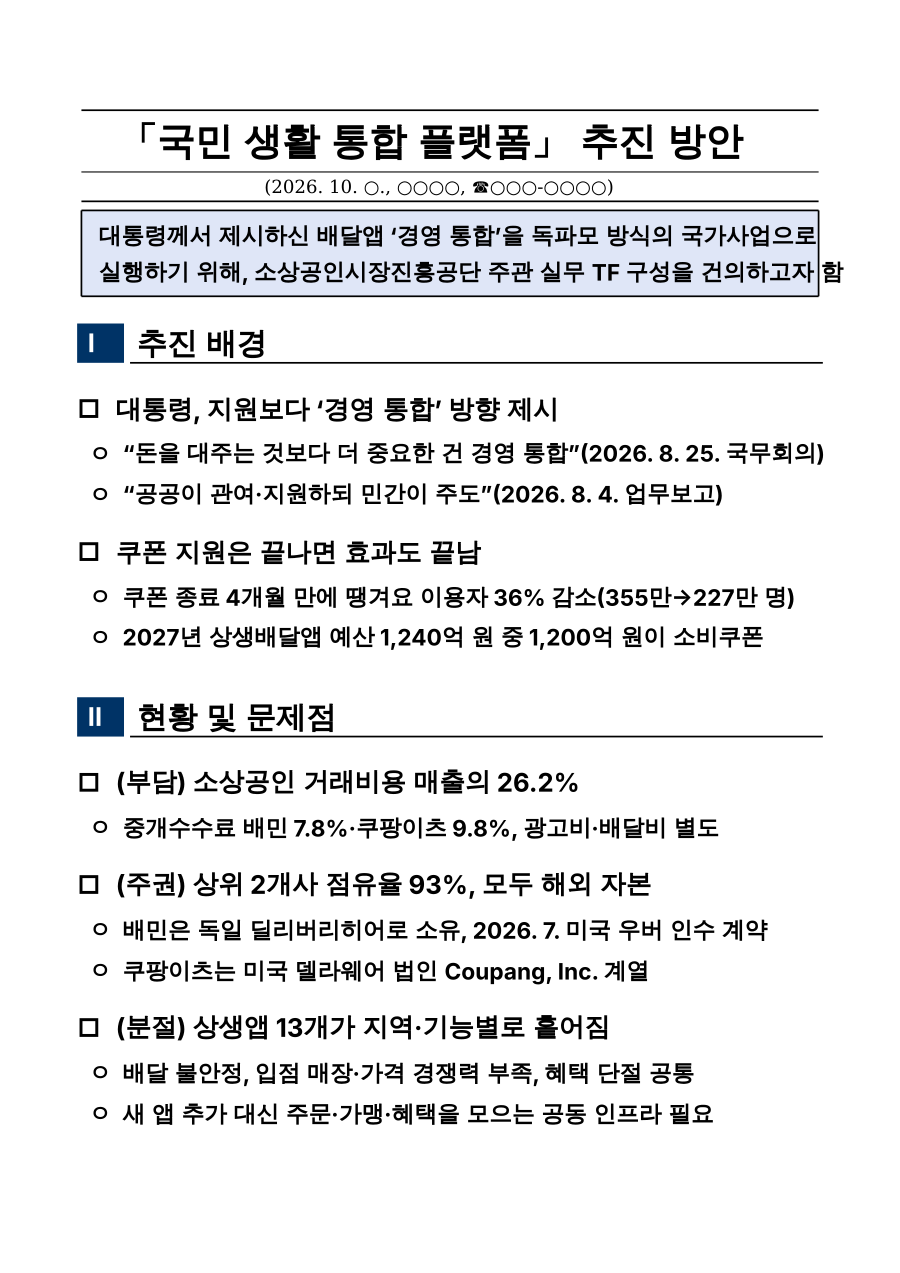
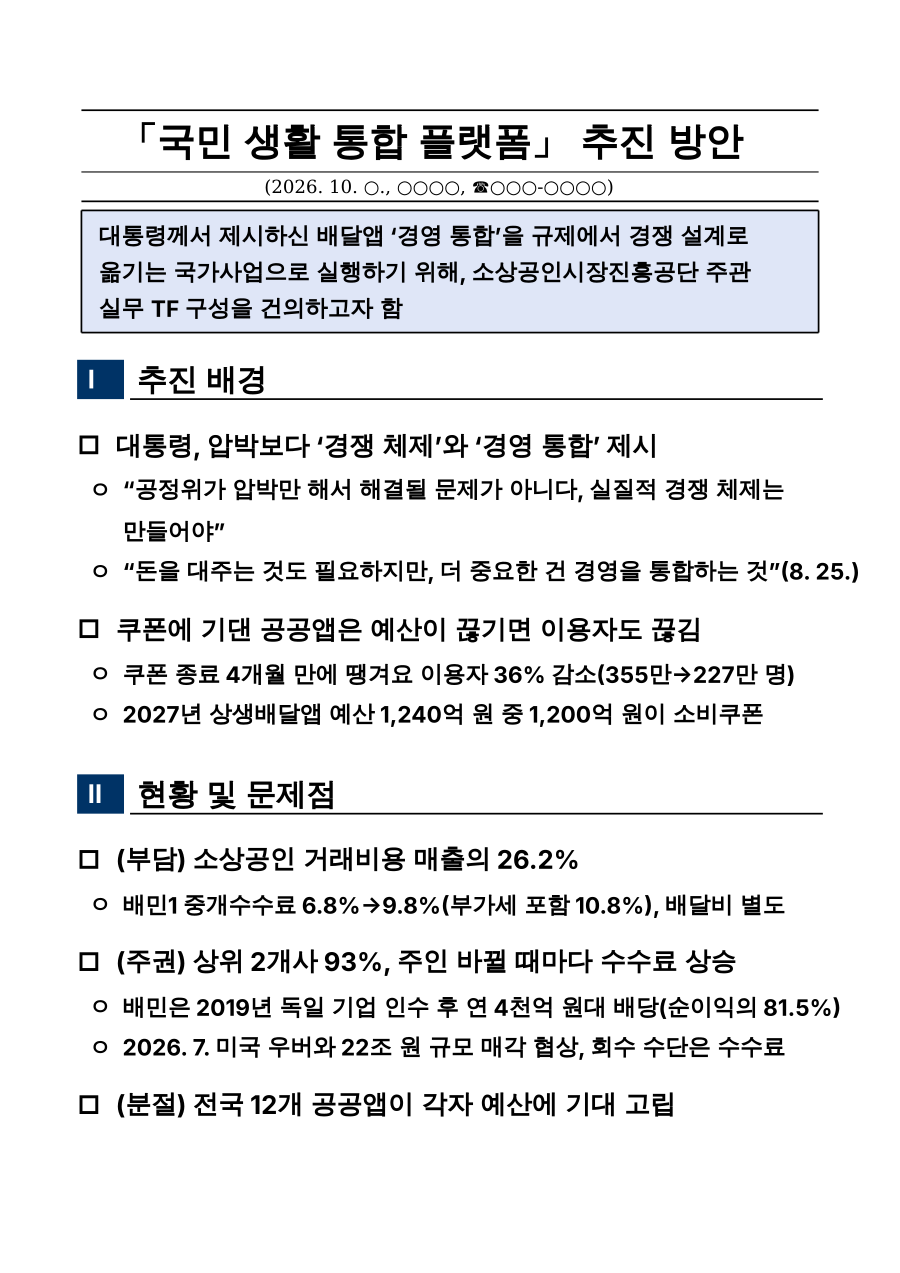
대통령 보고서에 8·25 이후 페북 글(배달주권 2030) 반영
Claude-Session: https://claude.ai/code/session_01BFErphuA4j3xYiicWyP4mv

Changed region(s): [[0.0622, 0.1532, 0.9644, 0.8885]]

diff --git a/out/국민생활통합플랫폼_대통령보고.md b/out/국민생활통합플랫폼_대통령보고.md
@@ -1,50 +1,51 @@
 # 「국민 생활 통합 플랫폼」 추진 방안
 
-> 대통령께서 제시하신 배달앱 ‘경영 통합’을 독파모 방식의 국가사업으로 실행하기 위해, 소상공인시장진흥공단 주관 실무 TF 구성을 건의하고자 함
+> 대통령께서 제시하신 배달앱 ‘경영 통합’을 규제에서 경쟁 설계로 옮기는 국가사업으로 실행하기 위해, 소상공인시장진흥공단 주관 실무 TF 구성을 건의하고자 함
 
 ## Ⅰ. 추진 배경
 
-1. 대통령, 지원보다 ‘경영 통합’ 방향 제시
-  - “돈을 대주는 것보다 더 중요한 건 경영 통합”(2026. 8. 25. 국무회의)
-  - “공공이 관여·지원하되 민간이 주도”(2026. 8. 4. 업무보고)
+1. 대통령, 압박보다 ‘경쟁 체제’와 ‘경영 통합’ 제시
+  - “공정위가 압박만 해서 해결될 문제가 아니다, 실질적 경쟁 체제는 만들어야”
+  - “돈을 대주는 것도 필요하지만, 더 중요한 건 경영을 통합하는 것”(8. 25.)
 
-2. 쿠폰 지원은 끝나면 효과도 끝남
+2. 쿠폰에 기댄 공공앱은 예산이 끊기면 이용자도 끊김
   - 쿠폰 종료 4개월 만에 땡겨요 이용자 36% 감소(355만→227만 명)
   - 2027년 상생배달앱 예산 1,240억 원 중 1,200억 원이 소비쿠폰
 
 ## Ⅱ. 현황 및 문제점
 
 1. (부담) 소상공인 거래비용 매출의 26.2%
-  - 중개수수료 배민 7.8%·쿠팡이츠 9.8%, 광고비·배달비 별도
+  - 배민1 중개수수료 6.8%→9.8%(부가세 포함 10.8%), 배달비 별도
 
-2. (주권) 상위 2개사 점유율 93%, 모두 해외 자본
-  - 배민은 독일 딜리버리히어로 소유, 2026. 7. 미국 우버 인수 계약
-  - 쿠팡이츠는 미국 델라웨어 법인 Coupang, Inc. 계열
+2. (주권) 상위 2개사 93%, 주인 바뀔 때마다 수수료 상승
+  - 배민은 2019년 독일 기업 인수 후 연 4천억 원대 배당(순이익의 81.5%)
+  - 2026. 7. 미국 우버와 22조 원 규모 매각 협상, 회수 수단은 수수료
 
-3. (분절) 상생앱 13개가 지역·기능별로 흩어짐
+3. (분절) 전국 12개 공공앱이 각자 예산에 기대 고립
   - 배달 불안정, 입점 매장·가격 경쟁력 부족, 혜택 단절 공통
-  - 새 앱 추가 대신 주문·가맹·혜택을 모으는 공동 인프라 필요
 
 ## Ⅲ. 추진 방안
 
-1. (방식) 독파모 선발 방식 준용
+1. (원칙) 국유화·강제 통폐합 대신 공공은 규칙·인프라 설계
+  - 회원·결제·정산·데이터는 전국 공유, 서비스·지역 정책은 지역에
+
+2. (선례) 해외는 결제·주문·규칙을 공공이 설계
+  - 브라질 즉시결제망(PIX): 결제 수수료 2∼5%→0.33%
+  - 인도 개방형 주문망(ONDC): 수수료 3∼5%, 기존 앱(25∼30%)의 6분의 1
+  - 유럽연합 디지털시장법(DMA): 거대 플랫폼에 개방 의무, 애플·메타 제재
+
+3. (방식) 독파모 방식 1조 원 국가사업
   - 컨소시엄 공모 → 지역 실증(재주문·총비용·배송) → 1곳 출자
-
-2. (구조) 정부 기금 → 소진공 → 운영법인
-  - 지분(안): 소진공 45%, 기존 상생 플랫폼 45%(현물), 국민 공모 10%
-  - 공익영리기업(PBC) 정관에 수수료 원칙·데이터 국외 이전 금지 명시
-  - 소진공은 이사회만, 경영은 민간 전문경영진, 자립 후 지분 매각
-
-3. (범위) 음식 200조·식료품 100조 원 시장 연결
-  - 기존 앱은 이름 유지, 주문·정산·결제·공동구매 공통 인프라 연결
-  - 지역사랑·온누리상품권, 농할쿠폰, 바우처 등 정책 혜택 통합
-
-4. (재원) 1조 원 규모 국가사업
   - 2027년 최상위 AI 모델 확보 정부안(5조 5,937억 원)의 5분의 1
+
+4. (구조) 정부 기금 → 소진공 → 운영법인(PBC)
+  - 지분(안): 소진공 45%, 기존 상생 플랫폼 45%(현물), 국민 공모 10%
+  - 밖에서는 공익 거버넌스가 수수료·알고리즘·데이터 규칙 감시
+  - 안에서는 공익영리기업(PBC) 정관이 소상공인 이익 고려를 의무화
 
 ## Ⅳ. 기대효과 및 건의
 
-1. (효과) 점주 총부담 15% 미만, 공공 점유율 15∼20%
-  - 쿠폰 지출을 국민이 소유하는 플랫폼 자산으로 전환
+1. (효과) 배민도 수수료를 함부로 못 올리는 시장
+  - 성과지표는 주문량이 아닌 시장 전체 수수료, 점주 총부담 15% 미만
 2. (건의) 소진공 주관 관계부처 실무 TF 구성
   - 10월 TF 출범, 12월 예산 협의, 2027년 1분기 컨소시엄 공모
